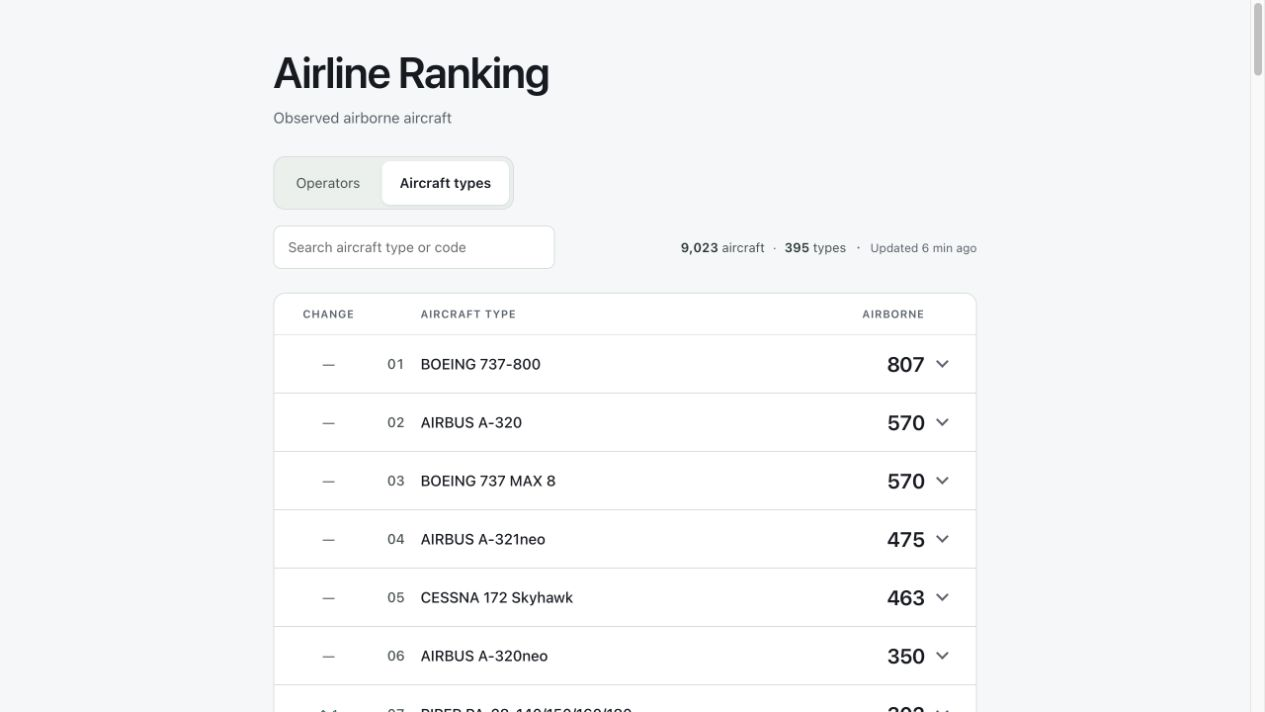
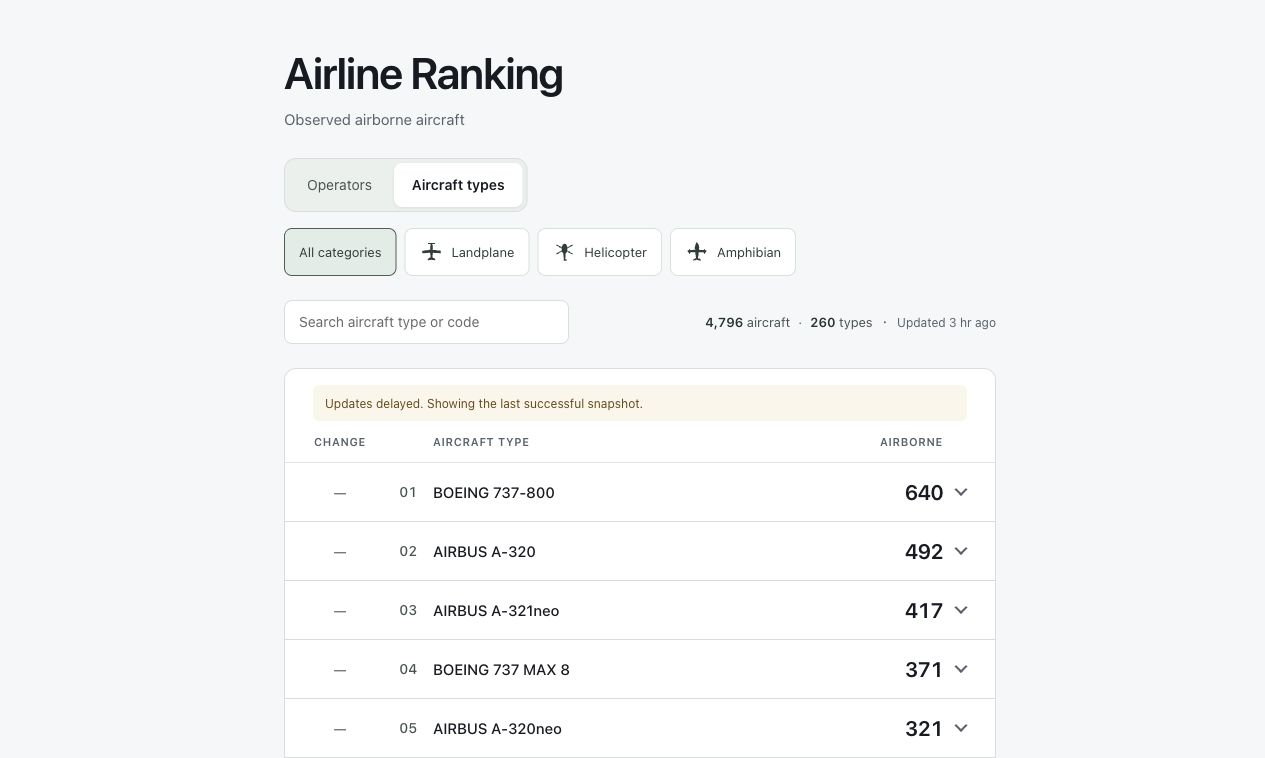
Add aircraft category filters with shared silhouettes

diff --git a/src/ranking-board.ts b/src/ranking-board.ts
@@ -1,4 +1,5 @@
-import { aircraftCategory, aircraftEngines } from './aircraft-classification';
+import { AircraftCategoryFilterComponent } from './aircraft-category-filter';
+import { aircraftCategory, aircraftEngines, availableAircraftCategories } from './aircraft-classification';
 import type { AfterRenderRef, ElementRef, OnChanges, OnDestroy, QueryList, SimpleChanges } from '@angular/core';
 import { ChangeDetectionStrategy, ChangeDetectorRef, Component, Injector, ViewChildren, afterNextRender, computed, inject, input, signal } from '@angular/core';
 import { DecimalPipe } from '@angular/common';
@@ -12,7 +13,7 @@ import { RankingToolbarComponent } from './ranking-toolbar';
 @Component({
   selector: 'app-ranking-board',
   standalone: true,
-  imports: [DecimalPipe, OperatorDetailsComponent, AircraftGroupDetailsComponent, RankingToolbarComponent],
+  imports: [AircraftCategoryFilterComponent, DecimalPipe, OperatorDetailsComponent, AircraftGroupDetailsComponent, RankingToolbarComponent],
   templateUrl: './ranking-board.html',
   styleUrl: './ranking-board.css',
   changeDetection: ChangeDetectionStrategy.OnPush,
@@ -40,7 +41,11 @@ export class RankingBoardComponent implements OnChanges, OnDestroy {
   readonly searchQuery = signal('');
   readonly rowBatchSize = 100;
   readonly visibleLimit = signal(this.rowBatchSize);
-  readonly matchingRows = computed(() => filterOperators(this.rows(), this.searchQuery()));
+  readonly selectedCategory = signal('');
+  readonly availableCategories = computed(() => availableAircraftCategories(
+    this.snapshot()?.aircraftTypeRankings ?? [], this.selectedCategory(),
+  ));
+  readonly matchingRows = computed(() => filterOperators(this.rows(), this.searchQuery(), this.isTypeView() ? this.selectedCategory() : ''));
   readonly visibleRows = computed(() => this.matchingRows().slice(0, this.visibleLimit()));
   readonly nextBatchSize = computed(() => Math.min(this.rowBatchSize, this.matchingRows().length - this.visibleRows().length));
   readonly announcement = signal('');
@@ -70,6 +75,7 @@ export class RankingBoardComponent implements OnChanges, OnDestroy {
     this.pendingRender?.destroy();
     this.cancelAnimations();
     this.view.set(view);
+    this.selectedCategory.set('');
     this.updateSearch('');
     this.expandedGroupId.set(null);
     this.isShowingAllTypes.set(false);
@@ -92,6 +98,12 @@ export class RankingBoardComponent implements OnChanges, OnDestroy {
     const group = this.unknownGroup();
     if (!group) { return []; }
     return 'operators' in group ? this.operatorBreakdown(group) : group.aircraftTypes;
+  }
+
+  changeCategory(category: string): void {
+    this.selectedCategory.set(category);
+    this.visibleLimit.set(this.rowBatchSize);
+    this.expandedGroupId.set(null);
   }
 
   updateSearch(query: string): void {

diff --git a/src/aircraft-icons.ts b/src/aircraft-icons.ts
@@ -1,0 +1,48 @@
+const straightPlane = 'M24 7 Q26 8 26 13 L26 20 L42 22 L42 26 L26 25 L25.5 35 L31 38 L31 40 L24 39 L17 40 L17 38 L22.5 35 L22 25 L6 26 L6 22 L22 20 L22 13 Q22 8 24 7 Z';
+const tiltrotor = 'M24 7 Q27 10 26 19 L38 20 L38 23 L26 23 L25 35 L31 39 L31 41 L24 39 L17 41 L17 39 L23 35 L22 23 L10 23 L10 20 L22 19 Q21 10 24 7 Z';
+const wingRotors = 'M4 16 L16 28 M4 28 L16 16 M32 16 L44 28 M32 28 L44 16';
+
+function floatHull(centerX: number, noseY: number, width: number, length: number): string {
+  const left = centerX - width / 2;
+  const right = centerX + width / 2;
+  const sternY = noseY + length;
+  return `M${centerX} ${noseY} Q${right} ${noseY + 2} ${right} ${noseY + 4} L${centerX + width / 3} ${sternY} H${centerX - width / 3} L${left} ${noseY + 4} Q${left} ${noseY + 2} ${centerX} ${noseY} Z`;
+}
+
+const floats = floatHull(15, 14, 3, 20) + floatHull(33, 14, 3, 20);
+const tiltAircraftIcon = { body: tiltrotor, detail: wingRotors };
+export const aircraftIcons = [
+  {
+    category: 'Landplane',
+    body: straightPlane,
+    detail: 'M18 7 H30',
+  },
+  {
+    category: 'Helicopter',
+    body: 'M24 8 C29 8 30 15 29 21 Q28 25 26 26 L25 39 L28 39 L28 41 L23 41 L23 38 L22 26 Q19 25 19 21 C18 15 19 8 24 8 Z',
+    detail: 'M8 10 L40 28 M8 28 L40 10',
+  },
+  {
+    category: 'Seaplane',
+    body: straightPlane + floats,
+    detail: '',
+  },
+  {
+    category: 'Amphibian',
+    body: 'M24 5 Q28 9 28 16 L27 20 L42 21 L42 24 L27 24 L26 33 L25 36 L31 39 V41 L24 39 L17 41 V39 L23 36 L22 33 L21 24 L6 24 V21 L21 20 L20 16 Q20 9 24 5 Z ' + floatHull(9, 18, 2, 9) + floatHull(39, 18, 2, 9),
+    detail: '',
+  },
+  {
+    category: 'Gyrocopter',
+    body: 'M24 10 C31 10 31 23 27 26 L25 27 L25 35 L30 38 L30 40 L24 39 L18 40 L18 38 L23 35 L23 27 L21 26 C17 23 17 10 24 10 Z',
+    detail: 'M6 17 H42 M18 29 H30',
+  },
+  {
+    category: 'Tiltrotor',
+    ...tiltAircraftIcon,
+  },
+  {
+    category: 'Tiltwing',
+    ...tiltAircraftIcon,
+  },
+];

diff --git a/src/ranking-board.html b/src/ranking-board.html
@@ -3,7 +3,10 @@
     <button type="button" [attr.aria-pressed]="!isTypeView()" (click)="changeView('operators')">Operators</button>
     <button type="button" [attr.aria-pressed]="isTypeView()" (click)="changeView('types')">Aircraft types</button>
   </div>
-  <app-ranking-toolbar [isTypeView]="isTypeView()" [searchQuery]="searchQuery()" [matchingCount]="matchingRows().length"
+  @if (isTypeView()) {
+    <app-aircraft-category-filter [available]="availableCategories()" [selected]="selectedCategory()" (categoryChanged)="changeCategory($event)" />
+  }
+  <app-ranking-toolbar [isCategoryFiltered]="!!selectedCategory()" [isTypeView]="isTypeView()" [searchQuery]="searchQuery()" [matchingCount]="matchingRows().length"
     [totalCount]="rows().length" [airborneCount]="snapshot()?.airborneCount" [snapshotAge]="snapshotAge()" (searchChanged)="updateSearch($event)" />
 }
 
@@ -92,7 +95,7 @@
         @if (isTypeView() && snapshot()?.aircraftTypeRankings === undefined) {
           Aircraft type ranking will be available after the next successful update.
         } @else {
-          {{ searchQuery().trim() ? 'No matches for your search.' : 'No ' + (isTypeView() ? 'aircraft types' : 'operators') + ' identified in this snapshot.' }}
+          {{ searchQuery().trim() || selectedCategory() ? 'No matches for the selected filters.' : 'No ' + (isTypeView() ? 'aircraft types' : 'operators') + ' identified in this snapshot.' }}
         }
       </p>
     }
@@ -103,7 +106,7 @@
   }
 </section>
 
-@if (unknownGroup(); as unassigned) {
+@if (!selectedCategory() && unknownGroup(); as unassigned) {
   @if (unassigned.count > 0) {
     @let isExpanded = expandedGroupId() === 'unassigned';
     <section #row [attr.aria-label]="unknownLabel()" class="unassigned-row" data-id="unassigned" [class.is-expanded]="isExpanded">

diff --git a/src/operator-search.ts b/src/operator-search.ts
@@ -1,11 +1,13 @@
+import { aircraftCategory } from './aircraft-classification.ts';
 import type { RankingRow } from '../shared/ranking';
 
-export function filterOperators(airlines: readonly RankingRow[], query: string): { airline: RankingRow; rank: number }[] {
+export function filterOperators(airlines: readonly RankingRow[], query: string, category = ''): { airline: RankingRow; rank: number }[] {
   const search = query.trim().toLowerCase();
   const rankedOperators = airlines.map((airline, index) => ({ airline, rank: index + 1 }));
-  if (search.length === 0) { return rankedOperators; }
+  if (search.length === 0 && !category) { return rankedOperators; }
 
   return rankedOperators.filter(({ airline }) => {
+    if (category && (!('operators' in airline) || aircraftCategory(airline.classification) !== category)) { return false; }
     const fields = [airline.name, airline.id];
     if ('aircraftTypes' in airline) {
       fields.push(airline.icao ?? '', airline.iata ?? '', airline.country ?? '');

diff --git a/src/aircraft-category-filter.css b/src/aircraft-category-filter.css
@@ -1,0 +1,49 @@
+.categories {
+  display: flex;
+  flex-wrap: wrap;
+  gap: 8px;
+  margin-bottom: 24px;
+}
+button {
+  display: flex;
+  align-items: center;
+  justify-content: center;
+  gap: 8px;
+  min-height: 48px;
+  padding: 10px 14px;
+  border: 1px solid #dce5df;
+  border-radius: 8px;
+  background: white;
+  color: #34473d;
+  font: inherit;
+  font-size: 13px;
+  cursor: pointer;
+}
+button:hover {
+  background: #f0f5f2;
+}
+button[aria-pressed="true"] {
+  background: #e6efea;
+  border-color: #546b5d;
+}
+button:focus-visible {
+  outline: 2px solid #34473d;
+  outline-offset: 2px;
+}
+svg {
+  width: 24px;
+  height: 24px;
+  flex: none;
+}
+.body {
+  fill: currentColor;
+  stroke: currentColor;
+  stroke-width: 1;
+  stroke-linejoin: round;
+}
+.detail {
+  fill: none;
+  stroke: currentColor;
+  stroke-width: 2;
+  stroke-linecap: round;
+}

diff --git a/src/aircraft-category-filter.ts b/src/aircraft-category-filter.ts
@@ -1,0 +1,16 @@
+import { ChangeDetectionStrategy, Component, computed, input, output } from '@angular/core';
+import { aircraftIcons } from './aircraft-icons';
+
+@Component({
+  selector: 'app-aircraft-category-filter',
+  standalone: true,
+  templateUrl: './aircraft-category-filter.html',
+  styleUrl: './aircraft-category-filter.css',
+  changeDetection: ChangeDetectionStrategy.OnPush,
+})
+export class AircraftCategoryFilterComponent {
+  readonly selected = input('');
+  readonly available = input.required<ReadonlySet<string>>();
+  readonly categoryChanged = output<string>();
+  readonly categories = computed(() => aircraftIcons.filter(icon => this.available().has(icon.category)));
+}

diff --git a/src/aircraft-category-filter.html b/src/aircraft-category-filter.html
@@ -1,0 +1,12 @@
+<div class="categories" role="group" aria-label="Filter aircraft types by category">
+  <button type="button" [attr.aria-pressed]="selected() === ''" (click)="categoryChanged.emit('')">All categories</button>
+  @for (category of categories(); track category.category) {
+    <button type="button" [attr.aria-pressed]="selected() === category.category" (click)="categoryChanged.emit(category.category)">
+      <svg viewBox="0 0 48 48" aria-hidden="true">
+        <path class="body" [attr.d]="category.body" />
+        <path class="detail" [attr.d]="category.detail" />
+      </svg>
+      <span>{{ category.category }}</span>
+    </button>
+  }
+</div>

diff --git a/src/aircraft-classification.ts b/src/aircraft-classification.ts
@@ -20,3 +20,13 @@ export function aircraftEngines(classification?: string): string {
   if (!engineType) { return 'Unavailable'; }
   return `${count} ${engineType} ${count === '1' ? 'engine' : 'engines'}`;
 }
+
+export function availableAircraftCategories(
+  types: readonly { classification?: string; count: number }[],
+  selected = '',
+): Set<string> {
+  const available = new Set(types.filter(type => type.count > 0).map(type => aircraftCategory(type.classification)));
+  available.delete('Unavailable');
+  if (selected) { available.add(selected); }
+  return available;
+}

diff --git a/src/ranking-toolbar.html b/src/ranking-toolbar.html
@@ -15,7 +15,7 @@
         <span aria-hidden="true">·</span>
       }
       <span class="search-results" role="status">
-        @if (searchQuery().trim()) {
+        @if (searchQuery().trim() || isCategoryFiltered()) {
           <strong>{{ matchingCount() }}</strong> of <strong>{{ totalCount() }}</strong> {{ isTypeView() ? 'types' : 'operators' }}
         } @else {
           <strong>{{ totalCount() }}</strong> {{ isTypeView() ? 'types' : 'operators' }}

diff --git a/src/ranking-toolbar.ts b/src/ranking-toolbar.ts
@@ -11,6 +11,7 @@ import { ChangeDetectionStrategy, Component, input, output } from '@angular/core
 })
 export class RankingToolbarComponent {
   readonly isTypeView = input(false);
+  readonly isCategoryFiltered = input(false);
   readonly searchQuery = input.required<string>();
   readonly matchingCount = input.required<number>();
   readonly airborneCount = input<number>();

diff --git a/docs/ranking.md b/docs/ranking.md
@@ -4,6 +4,8 @@
 
 ## Ranking behavior
 
+The Aircraft types view includes labelled silhouette buttons for category filtering. Select one category or All categories; search further narrows the selected category. Filtering preserves overall ranks and rank changes. Changing the category resets the visible batch and closes the open drawer. Switching ranking views clears the category filter. Only categories present in the full snapshot are offered, in a fixed order independent of search. A selected category remains available if it disappears after a refresh. Unknown type is shown only with All categories. Types without a recognized category remain in All categories; no Unknown category filter is offered. The aircraft total remains the snapshot total, while the type count reports matching types.
+
 The leaderboard initially displays 100 rows. A single “Show 100 more” button reveals the next batch, shows progress and disappears once all matching rows are visible. Search filters the full current snapshot by operator name, ICAO code, IATA code or directory-listed country, ignoring case and surrounding spaces. The observed callsign prefix remains searchable when directory details are unavailable. Country searches refer to the operator’s listed country, not aircraft locations. Results keep their original leaderboard ranks and update with the cached snapshot. Changing the search resets the visible limit to 100. A clear button appears when the field contains text; its touch target is at least 44 × 44 pixels. Clearing the search restores focus to the input and shows the first 100 rows. Loading more rows and searching make no additional requests. The airborne aircraft total, operator result count and snapshot age align with the table’s right edge beside search: one line on wide screens or stacked at intermediate widths. On mobile they stack below the full-width search field, aligned left. The aircraft total covers the entire snapshot, independently of operator search.
 
 The browser checks the cache every minute while the tab is visible, pauses polling in hidden tabs, and checks immediately when the tab becomes visible again. Conditional requests use ETags: unchanged responses retain the existing snapshot and avoid parsing and rebuilding the rankings. The snapshot age sits above the table and updates on each browser check. The 15-minute refresh interval sits beside “How does it work” below the table; that disclosure contains the exact UTC timestamp and grouping rules. Column labels and any delay notice stay visible in the sticky table header while scrolling. Rows animate to their new positions; counts update immediately with a brief neutral highlight. Reduced-motion preferences disable these effects. Screen-reader announcements include the new snapshot’s UTC date and time, so successive updates produce distinct announcements; directory-only updates do not announce a new snapshot. If an update fails, the last successful ranking and its original timestamp remain visible with a delay notice. Before the first successful snapshot, the UI shows an unavailable message and retries automatically.

diff --git a/README.md b/README.md
@@ -20,7 +20,7 @@ Observed airborne aircraft, ranked by operator and aircraft type. Explore rank c
 - **Inclusive totals:** aircraft without an identified operator or type remain visible in separate expandable sections.
 - **Responsive controls:** keyboard-accessible maps, touch targets and reduced-motion support.
 
-![Aircraft-type ranking with airborne counts and rank changes](docs/images/aircraft-types.png)
+![Aircraft-type ranking with category filters, airborne counts and rank changes](docs/images/aircraft-types.png)
 
 <details>
 <summary>See the mobile layout</summary>
